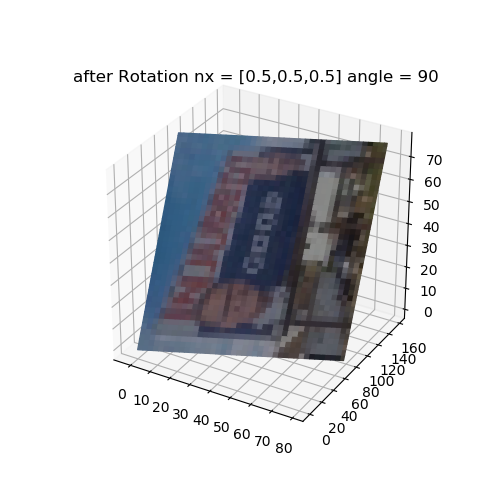
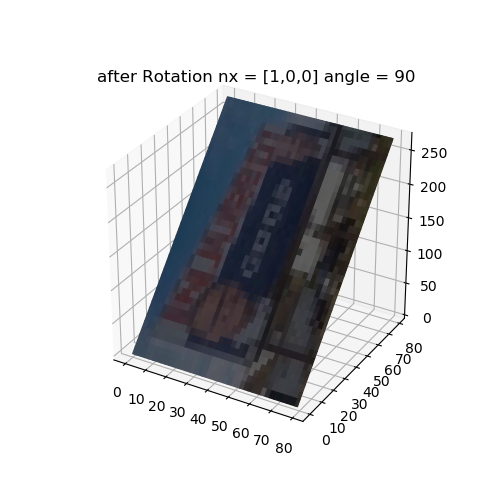
fix axis and quarter

diff --git a/axis.py b/axis.py
@@ -9,86 +9,56 @@ img = np.array(Image.open("sample.jpg"))
 print(img.shape)
 img = img / img.max()
 
-def axis_rotate(planeX, planeY, planeZ, angle, order="XYZ"):
-    order_arr = list(order)
-    
-    for i, plane in enumerate(order_arr):
-        if plane == "X":
-            print("PLANE X")
-            A = get_rotation(angle[i])
-            planeY, planeZ = axis_rotate_next(planeY, planeZ, A)
-        elif plane == "Y":
-            print("PLANE Y")
-            A = get_rotation(angle[i])
-            planeX, planeZ = axis_rotate_next(planeX, planeZ, A)
-        elif plane == "Z":
-            print("PLANE Z")
-            A = get_rotation(angle[i])
-            planeX, planeY = axis_rotate_next(planeX, planeY, A)
-        else:
-            print("ORDER WRONG")
-            exit()
-    
-    return planeX, planeY, planeZ
+def transform(XYZ, nx, angle):
+    magnitude = np.linalg.norm(nx)
+    nx = nx / magnitude
+    matrix = R(get_n(nx[0], nx[1], nx[2]), angle)
 
-def axis_rotate_next(plane1, plane2, matrix):
-    new_plane_1 = np.zeros(plane1.shape)
-    new_plane_2 = np.zeros(plane2.shape)
+    #print("magnitude: ", magnitude)
+    #print("nx new: ", nx)
+    #print("matrix: ", matrix)
     
-    for xx in range(plane1.shape[0]):
-        for yy in range(plane1.shape[1]):
-            XY1 = np.array([plane1[xx,yy],plane2[xx,yy],1])
-            
-            new_XY1 = np.array(matrix @ XY1)
-            new_XY1 = new_XY1 / new_XY1[2]
-            
-            #print(XY1, new_XY1)
-            
-            try:
-                new_plane_1[xx,yy] = new_XY1[0]
-                new_plane_2[xx,yy] = new_XY1[1]
-            except IndexError:
-                print("INERR")
-        
-    return np.round(new_plane_1,decimals=8), np.round(new_plane_2,decimals=8)
+    
+    new_X, new_Y, new_Z = np.zeros(XYZ[0].shape), np.zeros(XYZ[1].shape), np.zeros(XYZ[2].shape)
+    for row in range(XYZ[0].shape[0]):
+        for col in range(XYZ[0].shape[1]):
+            #print(np.array([X[row,col], Y[row,col], Z[row, col]]))
+            Xx, Yy, Zz = matrix @ np.array([X[row,col], Y[row,col], Z[row, col]])
 
-def get_rotation(angle):
+            new_X[row,col], new_Y[row,col], new_Z[row,col] = Xx, Yy, Zz 
+    return np.array([new_X, new_Y, new_Z])
+
+def R(n, angle):
     angle = np.radians(angle)
+    return np.eye(3) + np.sin(angle) * n + (1 - np.cos(angle)) * (np.power(n,2))
+
+def get_n(x, y, z):
     return np.array([
-        [np.cos(angle), np.sin(angle), 0],
-        [-np.sin(angle), np.cos(angle), 0],
-        [0, 0, 1]
+        [0,-z,y],
+        [z,0,-x],
+        [-y,x,0]
     ])
 
 X, Y = np.mgrid[0:img.shape[0], 0:img.shape[1]]
 # A blank, straight 0 Z coordinate
 Z = np.zeros(X.shape)
 
-#neoX, neoY, neoZ = axis_rotate(X, Y, Z, angle=[90], order="X")
-#neoX1, neoY1, neoZ1 = axis_rotate(neoX, neoY, neoZ, angle=[90], order="Y")
-#neoX2, neoY2, neoZ2 = axis_rotate(neoX1, neoY1, neoZ1, angle=[90], order="Z")
+nx, ny, nz = 1,0,0
+angle = 90
 
-neoX, neoY, neoZ = axis_rotate(X, Y, Z, angle=[90,90,90], order="XYZ")
+neoXYZ = transform(np.array([X,Y,Z]), np.array([nx,ny,nz]), angle)
 
-test = '''
-fig = plt.figure()#figsize=plt.figaspect(3))
-_, axarr = plt.subplots(nrows=2,ncols=2)#(projection='3d')
-ax = fig.add_subplot(2,2,1, projection='3d')
-ax.plot_surface(X, Y, Z, facecolors=img)
-ax = fig.add_subplot(2,2,2, projection='3d')
-ax.plot_surface(neoX, neoY, neoZ, facecolors=img)
-ax = fig.add_subplot(2,2,3, projection='3d')
-ax.plot_surface(neoX1, neoY1, neoZ1, facecolors=img)
-ax = fig.add_subplot(2,2,4, projection='3d')
-ax.plot_surface(neoX2, neoY2, neoZ2, facecolors=img)
-print(neoX2)
-print(neoY2)
-print(neoZ2)
-'''
-plt.figure()
+plt.figure(figsize=(5,5))
 ax = plt.gca(projection='3d')
 ax.plot_surface(X, Y, Z, facecolors=img)
-plt.figure()
+ax.set_title("Original Image")
+
+plt.savefig("result/original.png")
+
+plt.figure(figsize=(5,5))
 ax = plt.gca(projection='3d')
-ax.plot_surface(neoX, neoY, neoZ, facecolors=img)
+ax.plot_surface(neoXYZ[0], neoXYZ[1], neoXYZ[2], facecolors=img)
+ax.set_title("after Rotation nx = [{},{},{}] angle = {}".format(nx, ny, nz, angle))
+
+plt.savefig("result/after_axis.png")
 plt.show()

diff --git a/quarter.py b/quarter.py
@@ -10,11 +10,9 @@ print(img.shape)
 img = img / img.max()
 
 def transform(XYZ, nx, angle):
-    new_XYZ = np.zeros(XYZ.shape)
-
     magnitude = np.linalg.norm(nx)
     nx = nx / magnitude
-    matrix = R(get_v(nx[0], nx[1], nx[2]), angle)
+    matrix = R(nx, angle)
 
     #print("magnitude: ", magnitude)
     #print("nx new: ", nx)
@@ -31,7 +29,19 @@ def transform(XYZ, nx, angle):
     return np.array([new_X, new_Y, new_Z])
 
 def R(n, angle):
-    return np.eye(3) + np.sin(angle) * n + (1 - np.cos(angle)) * (np.power(n,2))
+    angle = np.radians(angle)
+    x, y, z = n[0], n[1], n[2]
+    v = get_v(x,y,z)
+    w = np.cos(angle/2)
+
+    return np.array(np.eye(3) + 2 * w * v + 2 * v ** 2)
+
+    #return np.array([
+    #    [1 - 2 * (y**2 + z**2), 2 * (x * y - z * w), 2 * (x * z + y * w)],
+    #    [2 * (x * y + z * w), 1 - 2 * (x**2 + z**2), 2 * (y * z - x * 2)],
+    #    [2 * (x * z - y * w), 2 * (y * z + x * w), 1 - 2 * (x**2 + y**2)]
+    #])
+    
 
 def get_v(x, y, z):
     return np.array([
@@ -44,7 +54,7 @@ X, Y = np.mgrid[0:img.shape[0], 0:img.shape[1]]
 # A blank, straight 0 Z coordinate
 Z = np.zeros(X.shape)
 
-nx, ny, nz = 0.5,0.5,0.5
+nx, ny, nz = 1,0,0
 angle = 90
 
 neoXYZ = transform(np.array([X,Y,Z]), np.array([nx,ny,nz]), angle)
